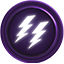
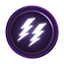
blinks and shit

diff --git a/SpaceSumo/ETorpedoPickup.cpp b/SpaceSumo/ETorpedoPickup.cpp
@@ -2,16 +2,18 @@
 #include "ETorpedoPickup.h"
 #include <ResourceManager\RHandle.h>
 #include "ETorpedoAbility.h"
-#include <iostream>
+
 
 
 ETorpedoPickup::ETorpedoPickup(b2World& world, std::string bodyData, float x, float y) :
 	PowerUp(),
 	mBody(world, bodyData, x, y),
-	mAnim(res::getTexture("res/img/PowerUp/EnergyTorpedo/powerup.png"), "res/img/powerup/EnergyTorpedo/energytorpedo_pickup.cfg", 5.f)
+	mAnim(res::getTexture("res/img/PowerUp/EnergyTorpedo/powerup.png"), "res/img/powerup/EnergyTorpedo/energytorpedo_pickup.cfg", 5.f),
+	mSnurrAnim(res::getTexture("res/img/powerup/Ring.png"), "res/img/PowerUp/Snurr.cfg", 6.f)
 {
 	mBody.getBody()->SetUserData(this);
 	mAnim.getSprite().setOrigin( 32 , 32 );
+	mSnurrAnim.getSprite().setOrigin( 32 , 32);
 	mBlinkStart.reset();
 }
 
@@ -22,8 +24,17 @@ ETorpedoPickup::~ETorpedoPickup()
 
 void ETorpedoPickup::update(GameData&data, GameStateData& gsData, int delta)
 {
+	mRotate++;
+	if(mRotate > 360)
+	{
+		mRotate = 0;
+	}
+
 	mAnim.getSprite().setRotation( mBody.getAngle() * RADIAN_TO_DEGREES );
 	mAnim.getSprite().setPosition( mBody.getWorldCenter().x*PPM, mBody.getWorldCenter().y*PPM);
+	mSnurrAnim.getSprite().setPosition( mBody.getWorldCenter().x*PPM, mBody.getWorldCenter().y*PPM);
+	mSnurrAnim.getSprite().setRotation(( mBody.getAngle() * RADIAN_TO_DEGREES ) + mRotate );
+	
 
 	if(mBlinkStart.isExpired())
 	{
@@ -45,6 +56,7 @@ void ETorpedoPickup::draw(RenderList& list)
 	if(!mBlinking)
 	{
 		list.addSprite(mAnim);
+		list.addSprite(mSnurrAnim);
 	}
 }
 

diff --git a/SpaceSumo/LHydrogen.cpp b/SpaceSumo/LHydrogen.cpp
@@ -7,10 +7,12 @@
 LHydrogen::LHydrogen(b2World &world, std::string bodyData, float x, float y) : 
 	PowerUp(),
 	mBody(world, bodyData, x, y),
-	mAnim(res::getTexture("res/img/powerup/FreezeBolt/LHydrogen.png"), "res/img/powerup/FreezeBolt/LHydrogen.cfg", 3.f)
+	mAnim(res::getTexture("res/img/powerup/FreezeBolt/LHydrogen.png"), "res/img/powerup/FreezeBolt/LHydrogen.cfg", 3.f),
+	mSnurrAnim(res::getTexture("res/img/powerup/Ring.png"), "res/img/PowerUp/Snurr.cfg", 6.f)
 {
 	mBody.getBody()->SetUserData(this);
 	mAnim.getSprite().setOrigin(32, 32);
+	mSnurrAnim.getSprite().setOrigin( 32 , 32);
 	mBlinkStart.reset();
 }
 
@@ -21,8 +23,17 @@ LHydrogen::~LHydrogen()
 
 void LHydrogen::update(GameData &data, GameStateData &gData, int delta)
 {
+	mRotate++;
+	if(mRotate > 360)
+	{
+		mRotate = 0;
+	}
+
 	mAnim.getSprite().setRotation( mBody.getAngle() * RADIAN_TO_DEGREES );
 	mAnim.getSprite().setPosition( mBody.getWorldCenter().x*PPM, mBody.getWorldCenter().y*PPM);
+	mSnurrAnim.getSprite().setPosition( mBody.getWorldCenter().x*PPM, mBody.getWorldCenter().y*PPM);
+	mSnurrAnim.getSprite().setRotation(( mBody.getAngle() * RADIAN_TO_DEGREES ) + mRotate );
+	
 
 	if(mBlinkStart.isExpired())
 	{
@@ -44,6 +55,7 @@ void LHydrogen::draw(RenderList& renderList)
 	if(!mBlinking)
 	{
 		renderList.addSprite(mAnim);
+		renderList.addSprite(mSnurrAnim);
 	}
 }
 

diff --git a/SpaceSumo/EMP.cpp b/SpaceSumo/EMP.cpp
@@ -6,17 +6,28 @@
 EMP::EMP(b2World &world, std::string bodyData, float x, float y) :
 	PowerUp(),
 	mBody(world,bodyData, x, y),
-	mAnim(res::getTexture("res/img/PowerUp/EMP/EMP.png"), "res/img/PowerUp/EMP/EMP.cfg", 3.f)
+	mAnim(res::getTexture("res/img/PowerUp/EMP/EMP.png"), "res/img/PowerUp/EMP/EMP.cfg", 3.f),
+	mSnurrAnim(res::getTexture("res/img/powerup/Ring.png"), "res/img/PowerUp/Snurr.cfg", 6.f)
 {
 	mBody.getBody()->SetUserData(this);
 	mAnim.getSprite().setOrigin(32, 32);
+	mSnurrAnim.getSprite().setOrigin(32, 32);
 	mBlinkStart.reset();
 }
 
 void EMP::update(GameData &data, GameStateData &gData, int delta)
 {
+	mRotate++;
+	if(mRotate > 360)
+	{
+		mRotate = 0;
+	}
+
 	mAnim.getSprite().setRotation( mBody.getAngle() * RADIAN_TO_DEGREES );
 	mAnim.getSprite().setPosition( mBody.getWorldCenter().x*PPM, mBody.getWorldCenter().y*PPM);
+	mSnurrAnim.getSprite().setPosition( mBody.getWorldCenter().x*PPM, mBody.getWorldCenter().y*PPM);
+	mSnurrAnim.getSprite().setRotation(( mBody.getAngle() * RADIAN_TO_DEGREES ) + mRotate );
+	
 
 	if(mBlinkStart.isExpired())
 	{
@@ -38,6 +49,7 @@ void EMP::draw(RenderList& renderList)
 	if(!mBlinking)
 	{
 		renderList.addSprite(mAnim);
+		renderList.addSprite(mSnurrAnim);
 	}
 }
 

diff --git a/SpaceSumo/SpaceManImp.cpp b/SpaceSumo/SpaceManImp.cpp
@@ -56,9 +56,9 @@ SpaceManImp::SpaceManImp(
 	mDirection(SVector(0.f, -1.f)),
 	mAngle(0.f),
 	mJetOffset(bodyData.getValue<int>("jetOffset")),
-	mAnim(res::getTexture(visualData.getValue<std::string>("Body")+".png"), visualData.getValue<std::string>("Body")+".cfg", 5.f),
-	mTurn(res::getTexture(visualData.getValue<std::string>("Smoke")+".png"), visualData.getValue<std::string>("Smoke")+".cfg", 6.f),
-	mJet(res::getTexture(visualData.getValue<std::string>("Jet")+".png"), visualData.getValue<std::string>("Jet")+".cfg", 7.f),
+	mAnim(res::getTexture(visualData.getValue<std::string>("Body")+".png"), visualData.getValue<std::string>("Body")+".cfg", 9.f),
+	mTurn(res::getTexture(visualData.getValue<std::string>("Smoke")+".png"), visualData.getValue<std::string>("Smoke")+".cfg", 9.1f),
+	mJet(res::getTexture(visualData.getValue<std::string>("Jet")+".png"), visualData.getValue<std::string>("Jet")+".cfg", 9.2f),
 	mJetpack(soundFac::createSound("res/sound/jetpack/jet.spf")),
 	mHead(head),                       
 	mRespawning(false),

diff --git a/Libraries/Common/stringH.cpp b/Libraries/Common/stringH.cpp
@@ -219,6 +219,46 @@ sf::Keyboard::Key str::toKey(std::string keyName)
 	{
 		return sf::Keyboard::BackSpace;
 	}
+	if(keyName == "NUMPAD0")
+	{
+		return sf::Keyboard::Numpad0;
+	}
+	if(keyName == "NUMPAD1")
+	{
+		return sf::Keyboard::Numpad1;
+	}
+	if(keyName == "NUMPAD2")
+	{
+		return sf::Keyboard::Numpad2;
+	}
+	if(keyName == "NUMPAD3")
+	{
+		return sf::Keyboard::Numpad3;
+	}
+	if(keyName == "NUMPAD4")
+	{
+		return sf::Keyboard::Numpad4;
+	}
+	if(keyName == "NUMPAD5")
+	{
+		return sf::Keyboard::Numpad5;
+	}
+	if(keyName == "NUMPAD6")
+	{
+		return sf::Keyboard::Numpad6;
+	}
+	if(keyName == "NUMPAD7")
+	{
+		return sf::Keyboard::Numpad7;
+	}
+	if(keyName == "NUMPAD8")
+	{
+		return sf::Keyboard::Numpad8;
+	}
+	if(keyName == "NUMPAD9")
+	{
+		return sf::Keyboard::Numpad9;
+	}
 	SError("Unknown Key", "Couldn't find char value for key: " + keyName);
 }
 

diff --git a/SpaceSumo/PowerUp.cpp b/SpaceSumo/PowerUp.cpp
@@ -1,16 +1,22 @@
 #include "stdafx.h"
 #include "PowerUp.h"
 #include "EntityType.h"
+#include <Common/Config.h>
 
 PowerUp::PowerUp()  :
 	mAlive(true),
 	mBlinking(false),
-	mTimer(30000),
-	mBlinkStart(24701),
-	mBlink1(800),
-	mBlink2(400)
+	mTimer(0),
+	mBlinkStart(0),
+	mBlink1(0),
+	mBlink2(0),
+	mRotate(-1)
 {
-
+	Config cfg("res/conf/powerup/Powerup_pickup.cfg");
+	mTimer.setDuration(cfg.getValue<int>("Duration"));
+	mBlinkStart.setDuration(cfg.getValue<int>("BlinkStart"));
+	mBlink1.setDuration(cfg.getValue<int>("Blink1"));
+	mBlink2.setDuration(cfg.getValue<int>("Blink2"));
 }
 
 PowerUp::~PowerUp()

diff --git a/SpaceSumo/ETorpedoPickup.h b/SpaceSumo/ETorpedoPickup.h
@@ -17,7 +17,7 @@ public:
 	virtual Ability* getAbility();
 
 private:
-
 	Animation mAnim;
+	Animation mSnurrAnim;
 	B2Body mBody;
 };

diff --git a/SpaceSumo/LHydrogen.h b/SpaceSumo/LHydrogen.h
@@ -20,5 +20,6 @@ public:
 private:
 	B2Body mBody;
 	Animation mAnim;
+	Animation mSnurrAnim;
 
 };

diff --git a/SpaceSumo/EMP.h b/SpaceSumo/EMP.h
@@ -12,4 +12,5 @@ public:
 private:
 	B2Body mBody;
 	Animation mAnim;
+	Animation mSnurrAnim;
 };

diff --git a/SpaceSumo/PowerUp.h b/SpaceSumo/PowerUp.h
@@ -30,4 +30,5 @@ protected:
 	Timer mBlink2;
 	bool mAlive;
 	bool mBlinking;
+	int mRotate;
 };
